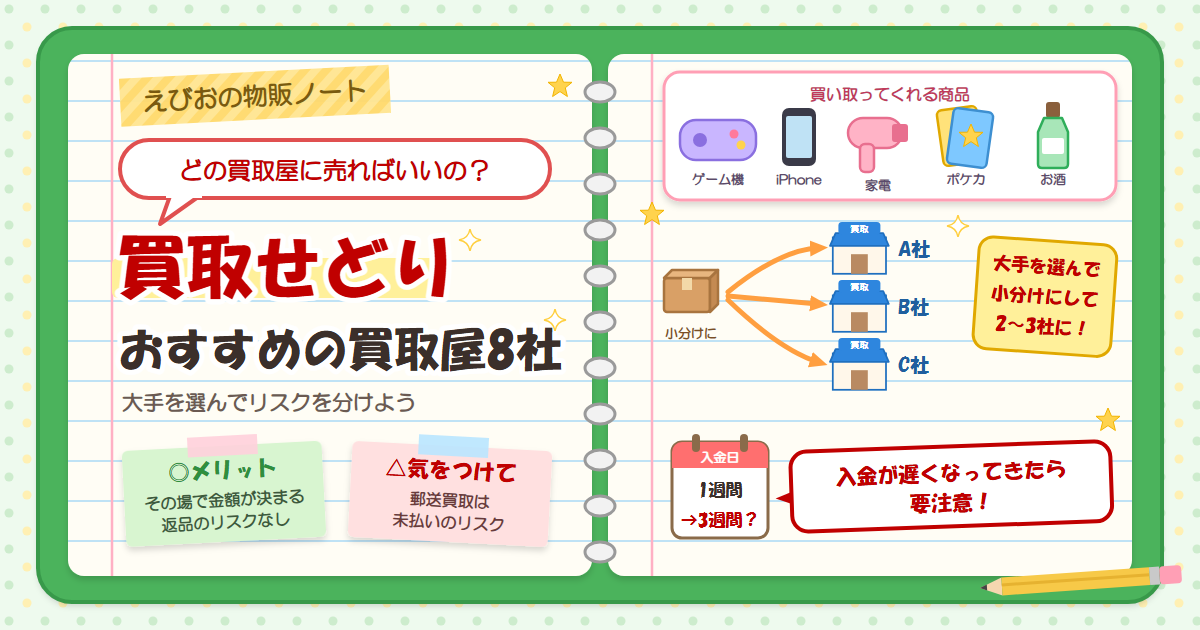
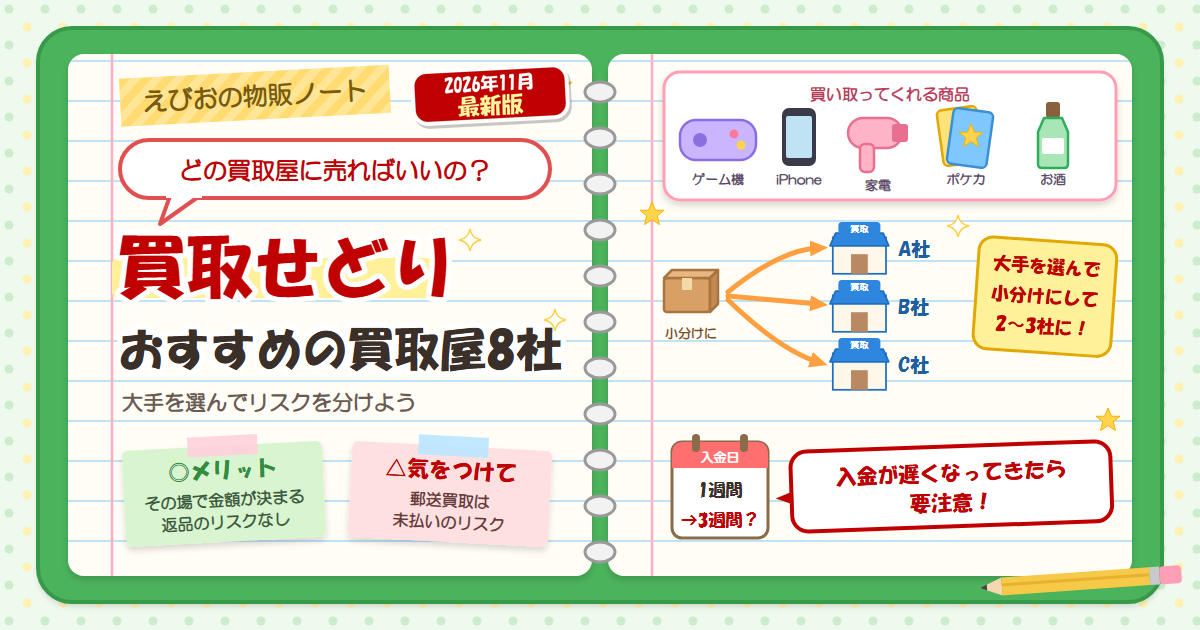
買取せどりの記事を公開：原稿と画像を更新

Changed region(s): [[0.3392, 0.0905, 0.4933, 0.2111]]

diff --git a/posts/2026-10-26-kaitori-sedori.html b/posts/2026-10-26-kaitori-sedori.html
@@ -2,6 +2,7 @@
 タイトル案1：送ったのに入金されない！？買取せどりのやり方と未払いを防ぐリスク分散
 タイトル案2：買取せどりとは？持ち込みならその場で金額確定、でも郵送買取には落とし穴が
 タイトル案3：買取せどりのやり方とおすすめの買取屋8社｜大手を選んでリスクを分けよう（えびおが選んだタイトル。2026/10/26）
+公開時のタイトル：【2026年11月最新版】買取せどりのやり方とおすすめの買取屋8社｜大手を選んでリスクを分けよう（2026/11/05）
 カテゴリー：せどり（4）
 スラッグ：kaitori-sedori
 -->
@@ -89,15 +90,15 @@
 <!-- /wp:list -->
 
 <!-- wp:paragraph -->
-<p>よく使われる買取屋を、各社の公式サイトで調べてまとめました（2026年10月時点）。どこも、サイトで買取価格を見てから申し込めます。</p>
+<p>よく使われる買取屋を、各社の公式サイトで調べてまとめました（2026年11月に調べた内容です）。どのお店も、サイトで買取価格や査定額を確かめてから申し込めます。</p>
 <!-- /wp:paragraph -->
 
 <!-- wp:table -->
-<figure class="wp-block-table"><table class="has-fixed-layout"><thead><tr><th>買取屋</th><th>持ち込みできるお店</th><th>特徴</th></tr></thead><tbody><tr><td>買取一丁目</td><td>東京（秋葉原・新宿など）</td><td>スマホ・家電の新品と中古。店頭と郵送の両方。業者や法人の大口も受け付け</td></tr><tr><td>買取商店</td><td>東京（秋葉原・池袋・新大久保・赤羽）</td><td>スマホ・家電・おもちゃ・お酒。2008年設立の会社が運営。郵送はスマホで本人確認（eKYC）</td></tr><tr><td>森森買取</td><td>東京（秋葉原・銀座）・大阪・福岡</td><td>iPhone・ゲーム機・ポケモンカード・お酒など幅広い。大きな会社（株式会社三木森）が運営</td></tr><tr><td>買取ルデヤ</td><td>東京（秋葉原・池袋・新宿・赤羽）・川崎・大宮</td><td>Switch・PlayStation・iPhone・AirPodsなど。お店の数が多い</td></tr><tr><td>モバイルミックス</td><td>東京（秋葉原・新宿・池袋）・大阪（心斎橋）</td><td>iPhoneに強い。郵送は配送買取センターで受け付け</td></tr><tr><td>買取Wiki</td><td>東京（西日暮里・秋葉原など）</td><td>iPhone・スマホが中心。買取はサイトでの事前予約が必要</td></tr><tr><td>ドラゴンモバイル</td><td>東京（秋葉原）</td><td>携帯・スマホ・iPad・家電</td></tr><tr><td>家電市場</td><td>東京（秋葉原）・埼玉（ふじみ野・川口）・川崎</td><td>家電・パソコン・カメラ・iPhone・ゲーム機など幅広い。新品・未使用品を持ち込み・郵送・出張で買い取り。郵送は1点から（送料は元払い）</td></tr></tbody></table></figure>
+<figure class="wp-block-table"><table class="has-fixed-layout"><thead><tr><th>買取屋</th><th>持ち込みできるお店</th><th>特徴</th></tr></thead><tbody><tr><td>買取一丁目</td><td>東京（秋葉原・新宿）・大阪（なんば）・福岡・名古屋</td><td>スマホ・家電の新品と中古。店頭と郵送の両方。業者や法人の大口も受け付け</td></tr><tr><td>買取商店</td><td>東京（秋葉原・池袋・新大久保・赤羽）</td><td>スマホ・家電・おもちゃ・お酒。2008年設立の会社が運営。郵送はスマホで本人確認（eKYC）</td></tr><tr><td>森森買取</td><td>東京（秋葉原駅前・新宿・高田馬場）・大阪（なんば）・福岡</td><td>iPhone・ゲーム機・ポケモンカード・お酒など幅広い。大きな会社（株式会社三木森）が運営。秋葉原本店は法人限定</td></tr><tr><td>買取ルデヤ</td><td>東京（秋葉原・池袋・新宿・赤羽）・川崎・大宮</td><td>Switch・PlayStation・iPhone・AirPodsなど。お店の数が多い</td></tr><tr><td>モバイルミックス</td><td>東京（秋葉原・新宿・池袋）・大阪（心斎橋）</td><td>iPhoneに強い。郵送は配送買取センターで受け付け</td></tr><tr><td>買取Wiki</td><td>東京（西日暮里・秋葉原など）</td><td>iPhone・スマホが中心。買取はサイトでの事前予約が必要</td></tr><tr><td>ドラゴンモバイル</td><td>東京（秋葉原）</td><td>携帯・スマホ・iPad・家電</td></tr><tr><td>家電市場</td><td>公式サイトに記載なし（運営は埼玉県ふじみ野市の会社）</td><td>家電・パソコン・カメラ・スマホ・ゲーム機など幅広い。全国対応で、電話とウェブで無料査定。送り方や送料は申し込む前に確かめましょう</td></tr></tbody></table></figure>
 <!-- /wp:table -->
 
 <!-- wp:paragraph -->
-<p>郵送で送るときの送料は、お店ごとに条件がちがいます。たとえば買取一丁目は「1箱あたり10万円以上」、森森買取は新品なら「合計10万円以上」などの条件を満たすと、送料無料（着払い）になります。</p>
+<p>郵送で送るときの送料は、お店ごとに条件がちがいます。たとえば買取一丁目は「会員で、1箱あたり10万円以上・5点以上（スマホ本体なら3点以上）」、森森買取は新品なら「電化製品を合計5点以上・合計10万円以上」などの条件を満たすと、送料無料（着払い）になります。</p>
 <!-- /wp:paragraph -->
 
 <!-- wp:paragraph -->
